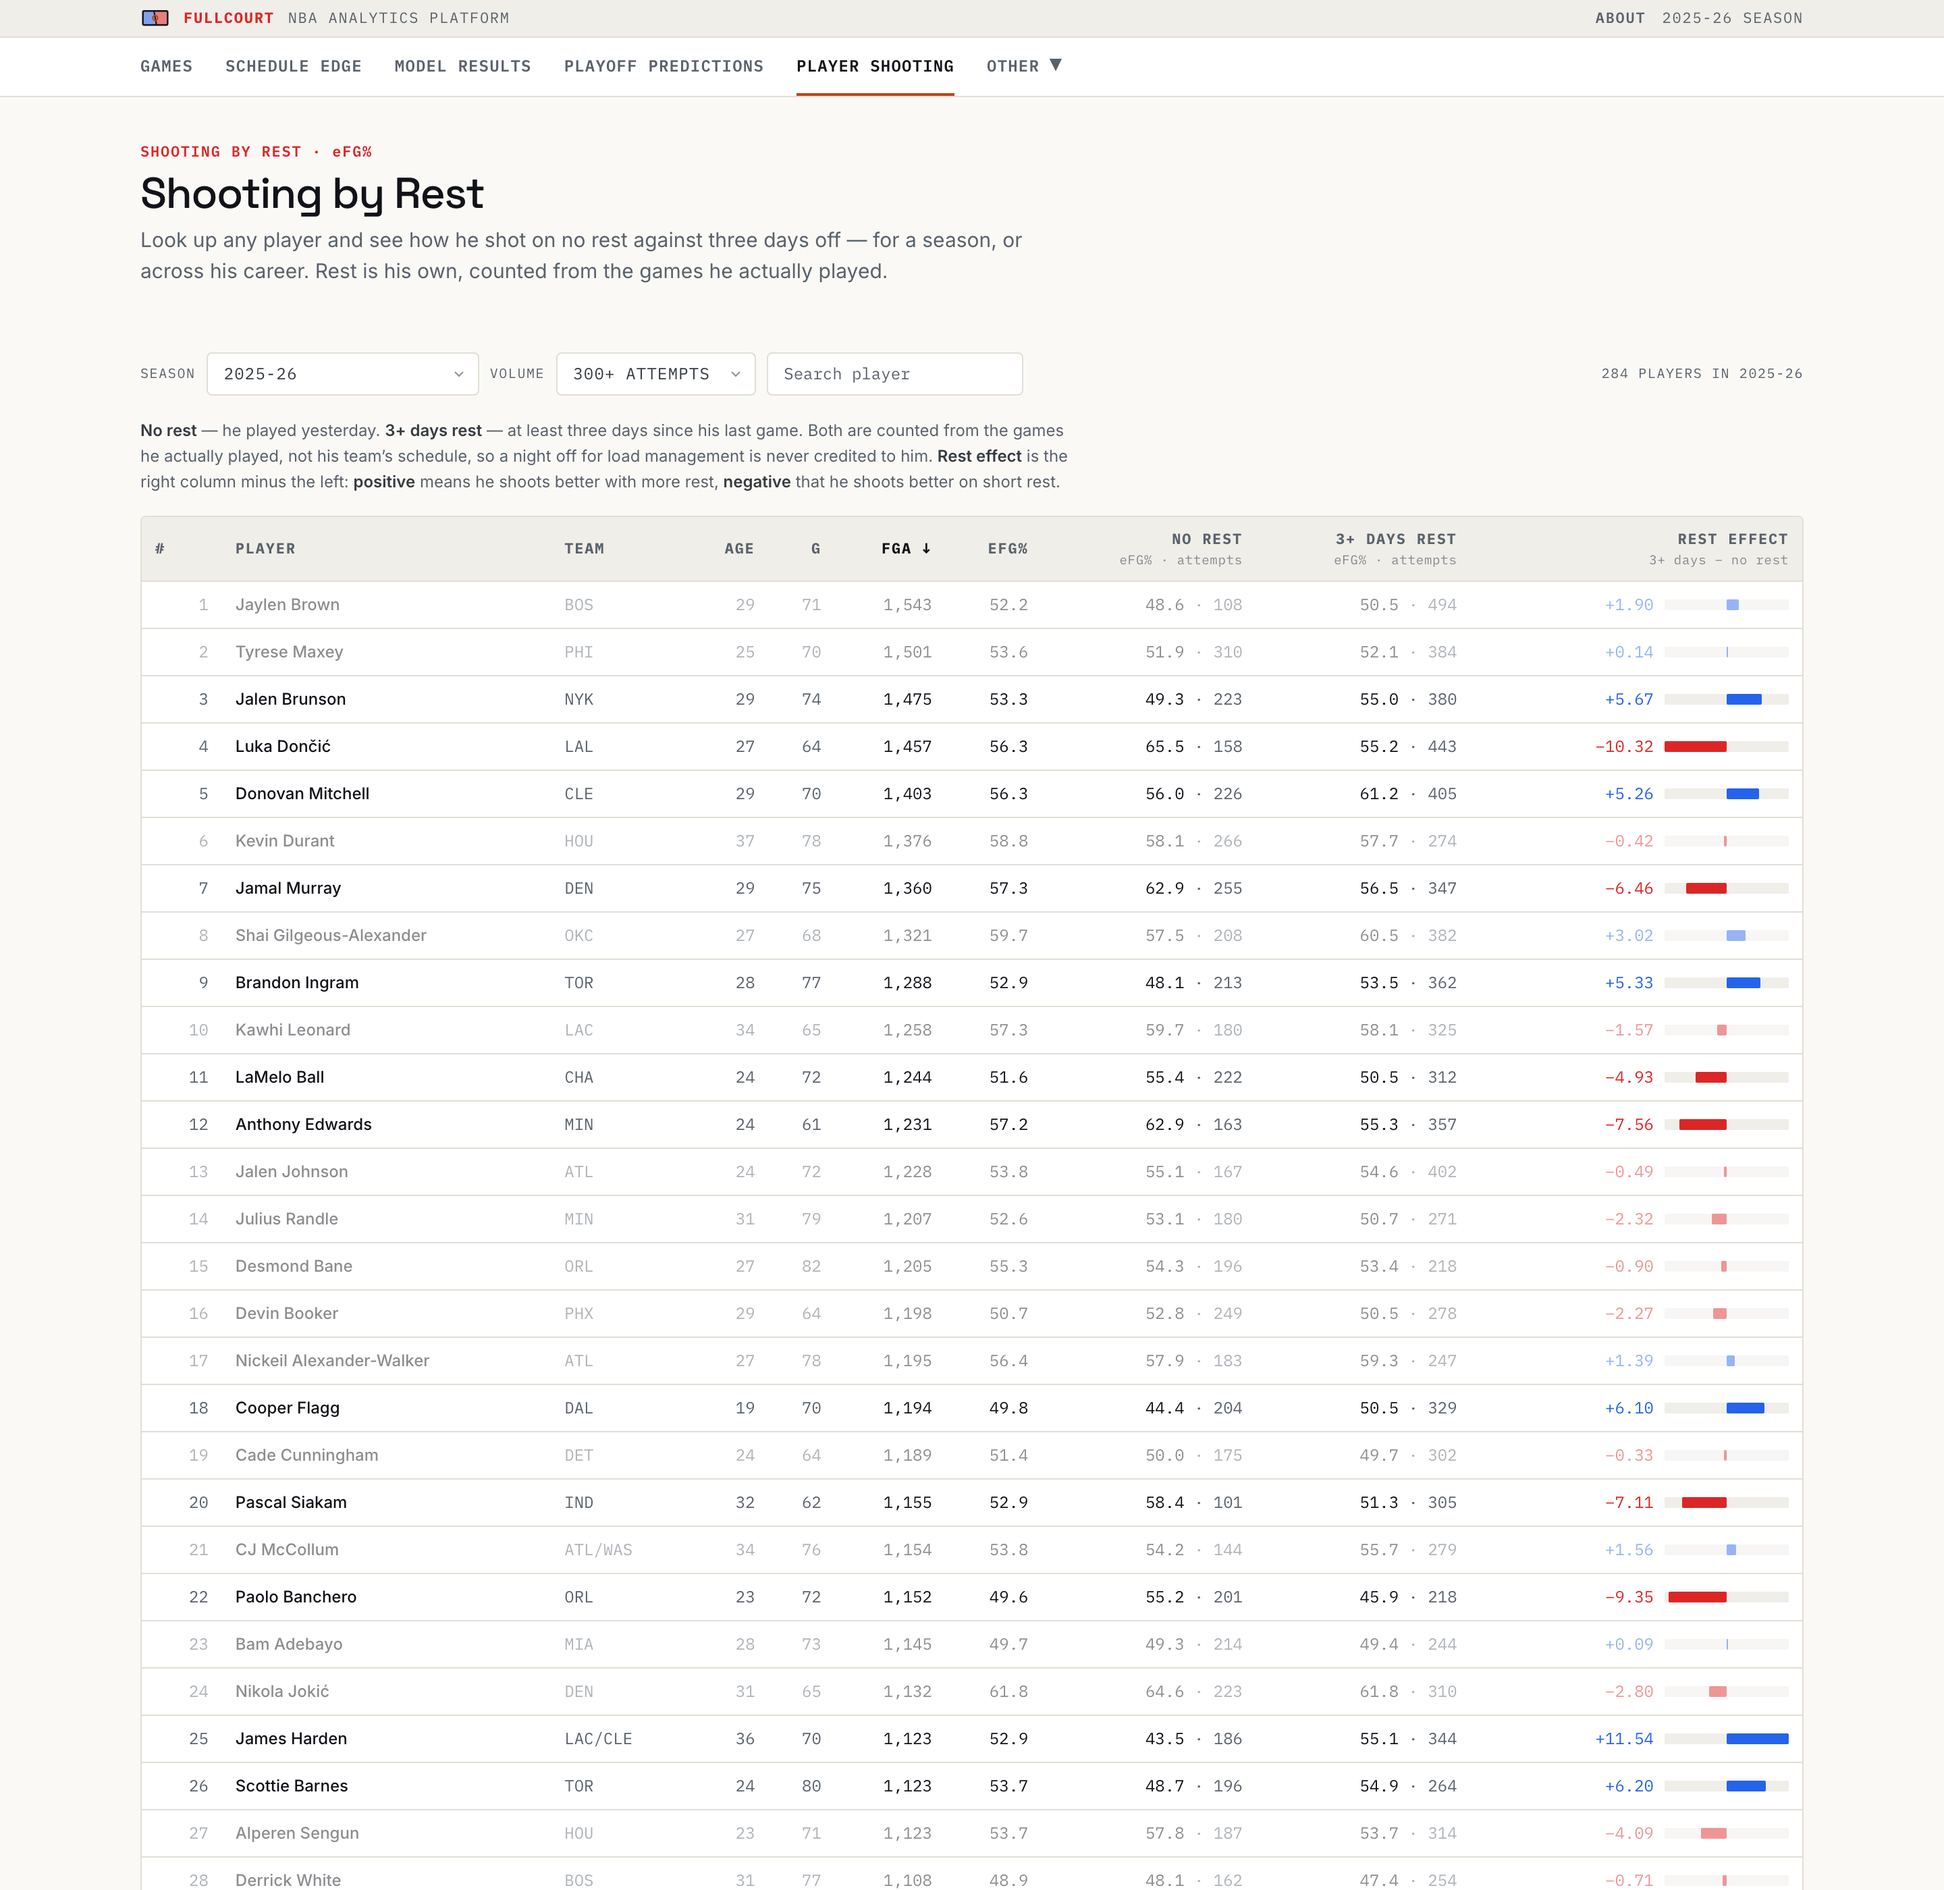
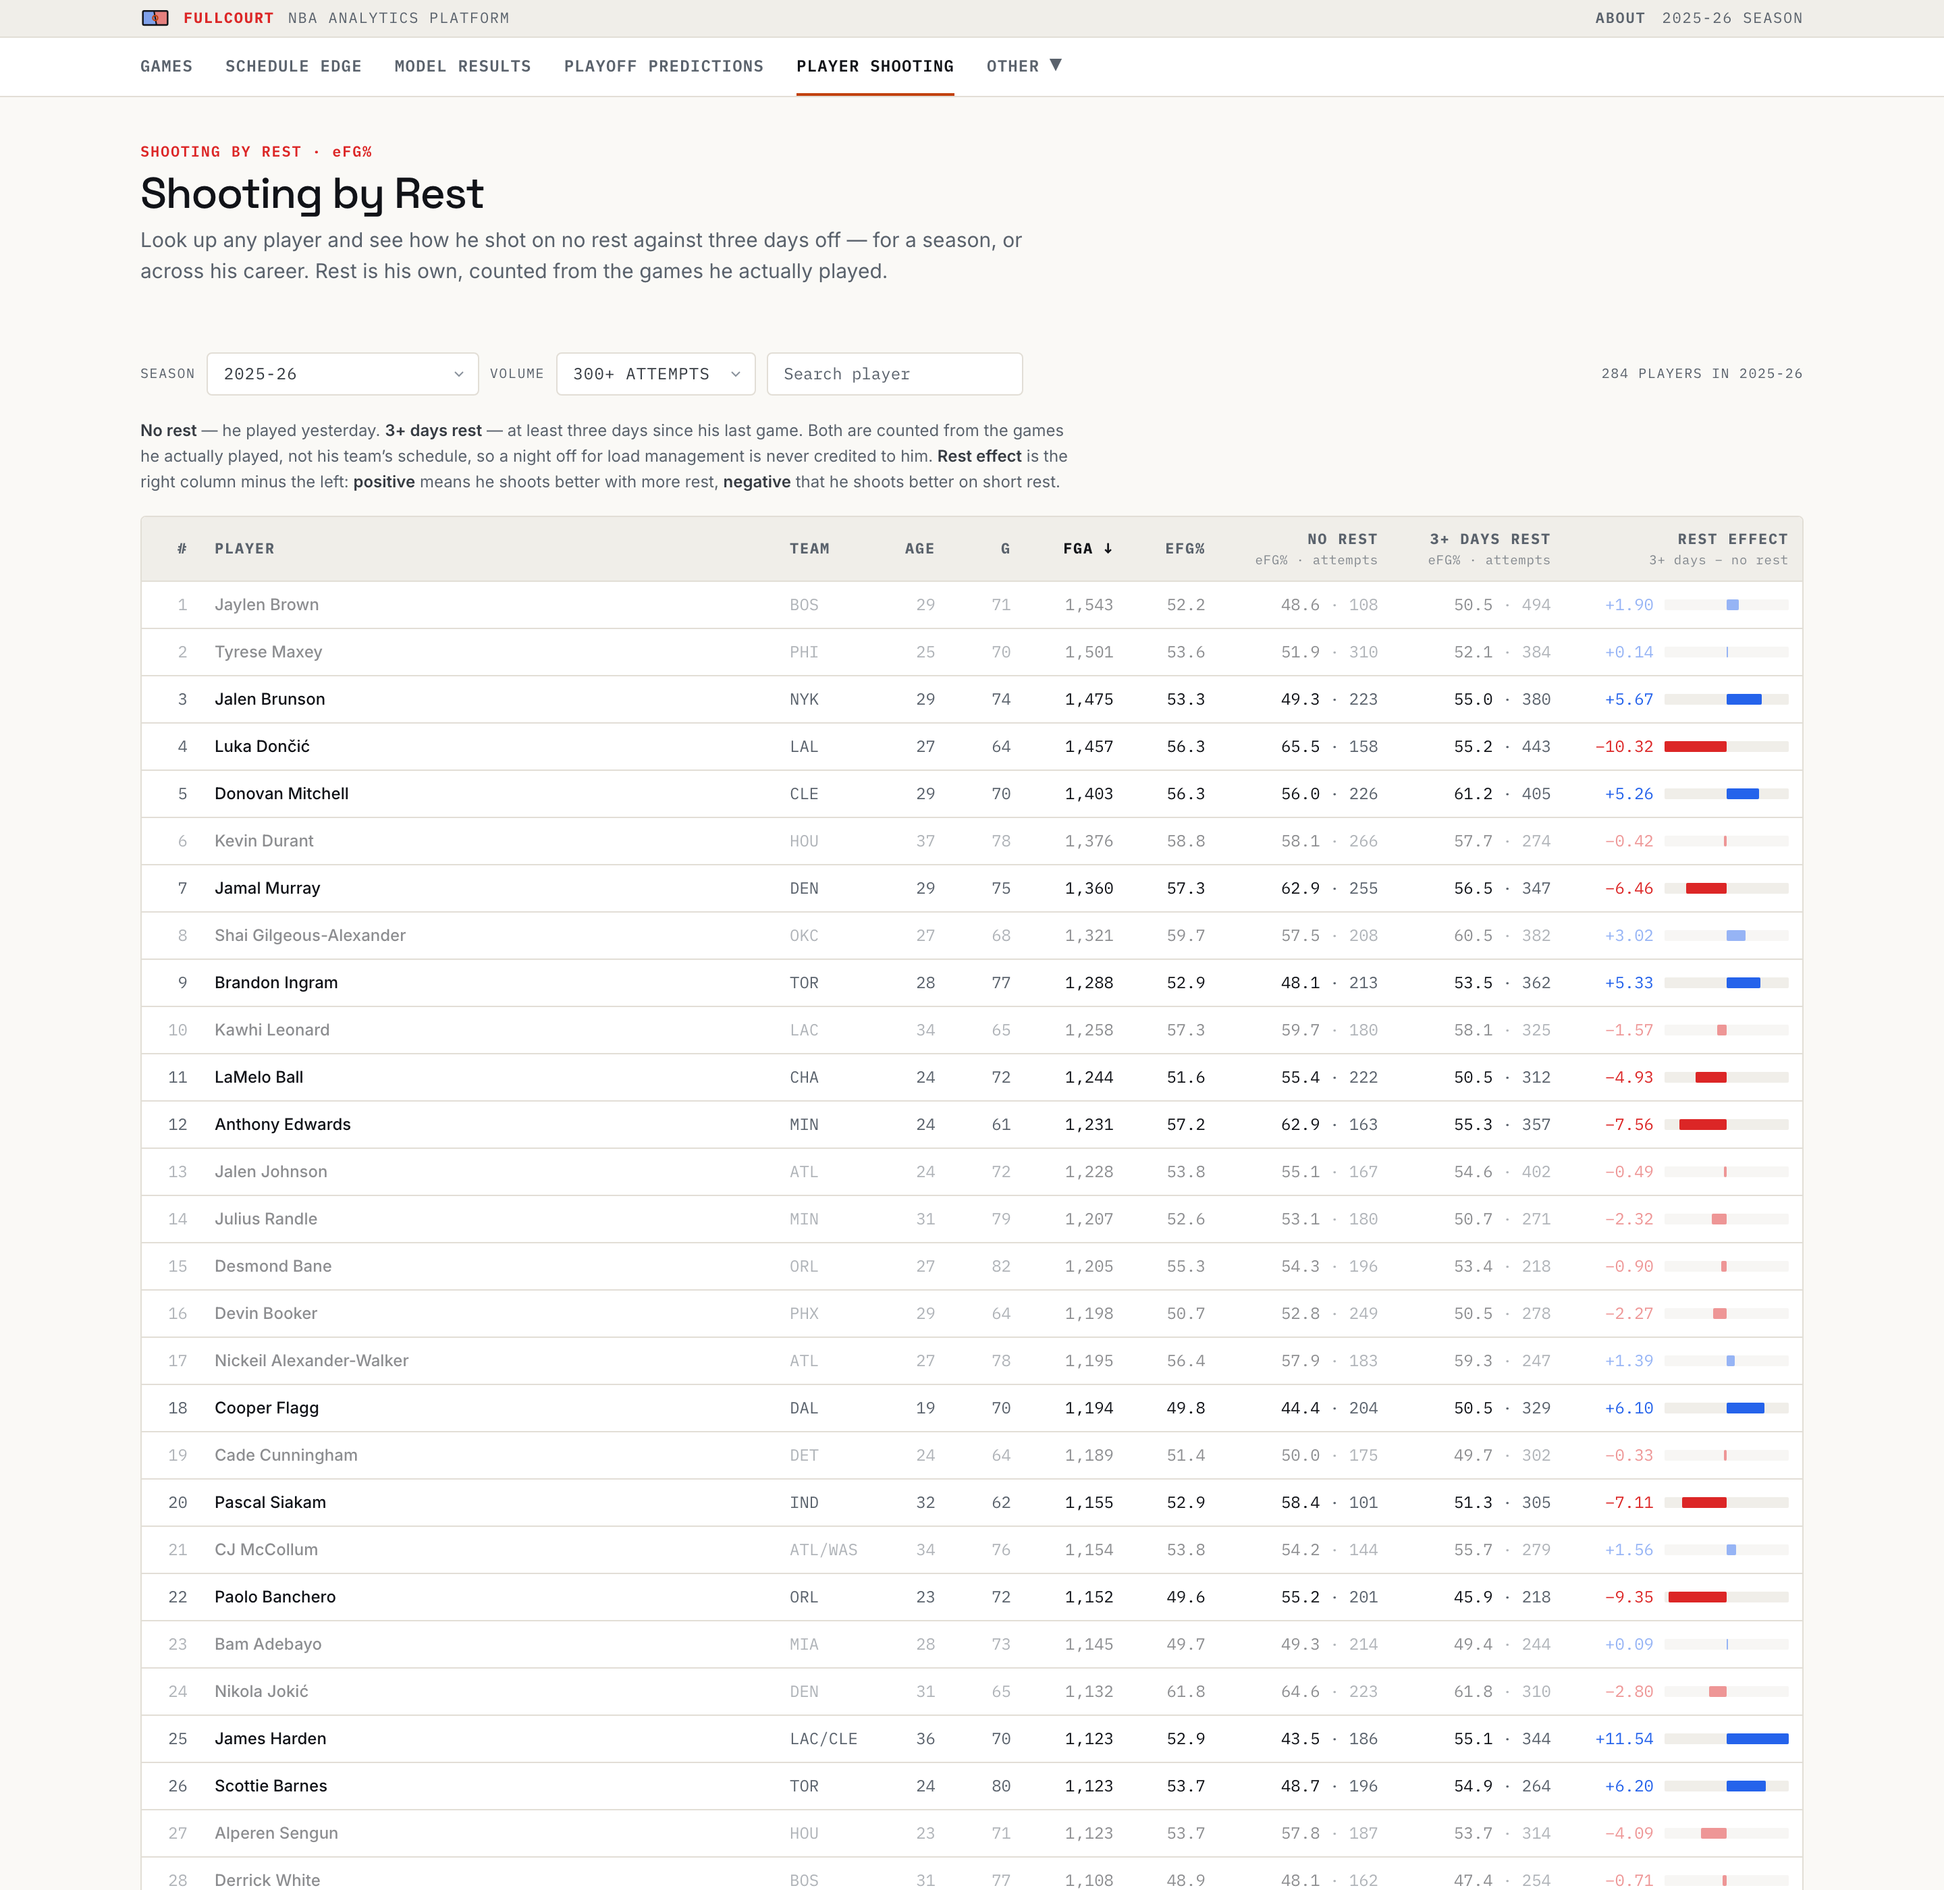
fix(shooting): pin the table's columns so the gaps are even and # sits over its ranks
Auto layout handed the leftover table width to whichever columns held text, which opened
a chasm between TEAM and AGE while AGE and G sat on top of each other. Every column now
has a width via <colgroup> and PLAYER is the only elastic one, so all the slack goes to
the column that can use it. The `#` header was also left-aligned above right-aligned
ranks, floating a column-width away from the numbers it labels; it is right-aligned now.

diff --git a/src/components/player-rest-content.tsx b/src/components/player-rest-content.tsx
@@ -58,17 +58,30 @@ const VOLUME_OPTIONS = [
 const CAREER_CAP = 4
 const SEASON_CAP = 10
 
-const COLUMNS: { key: SortKey | null; label: string; unit?: string; align?: "right" }[] = [
-  { key: null, label: "#" },
-  { key: "name", label: "Player" },
-  { key: null, label: "Team" },
-  { key: "age", label: "Age", align: "right" },
-  { key: "games", label: "G", align: "right" },
-  { key: "fga", label: "FGA", align: "right" },
-  { key: "efg", label: "eFG%", align: "right" },
-  { key: "noRestEfg", label: "No rest", unit: "eFG% · attempts", align: "right" },
-  { key: "restedEfg", label: "3+ days rest", unit: "eFG% · attempts", align: "right" },
-  { key: "effect", label: "Rest effect", unit: "3+ days − no rest", align: "right" },
+/**
+ * `width` drives a <colgroup>. Auto layout hands leftover table width to whichever
+ * columns hold text, which put a chasm between TEAM and AGE while AGE and G sat on top
+ * of each other; pinning every column and leaving PLAYER as the only elastic one sends
+ * all the slack to the one column that can use it. `#` is right-aligned like the ranks
+ * it labels — as a left-aligned header it floated a column-width away from its numbers.
+ */
+const COLUMNS: {
+  key: SortKey | null
+  label: string
+  unit?: string
+  align?: "right"
+  width: string
+}[] = [
+  { key: null, label: "#", align: "right", width: "44px" },
+  { key: "name", label: "Player", width: "auto" },
+  { key: null, label: "Team", width: "72px" },
+  { key: "age", label: "Age", align: "right", width: "56px" },
+  { key: "games", label: "G", align: "right", width: "56px" },
+  { key: "fga", label: "FGA", align: "right", width: "76px" },
+  { key: "efg", label: "eFG%", align: "right", width: "68px" },
+  { key: "noRestEfg", label: "No rest", unit: "eFG% · attempts", align: "right", width: "128px" },
+  { key: "restedEfg", label: "3+ days rest", unit: "eFG% · attempts", align: "right", width: "128px" },
+  { key: "effect", label: "Rest effect", unit: "3+ days − no rest", align: "right", width: "176px" },
 ]
 
 function fmt(v: number | null | undefined, digits = 1): string {
@@ -285,6 +298,11 @@ export function PlayerRestContent() {
         style={{ ...termCardStyle, padding: 0, maxHeight: "74vh" }}
       >
         <table className="w-full border-collapse text-[12px]">
+          <colgroup>
+            {COLUMNS.map((col) => (
+              <col key={col.label} style={{ width: col.width }} />
+            ))}
+          </colgroup>
           <thead>
             <tr>
               {COLUMNS.map((col) => {
